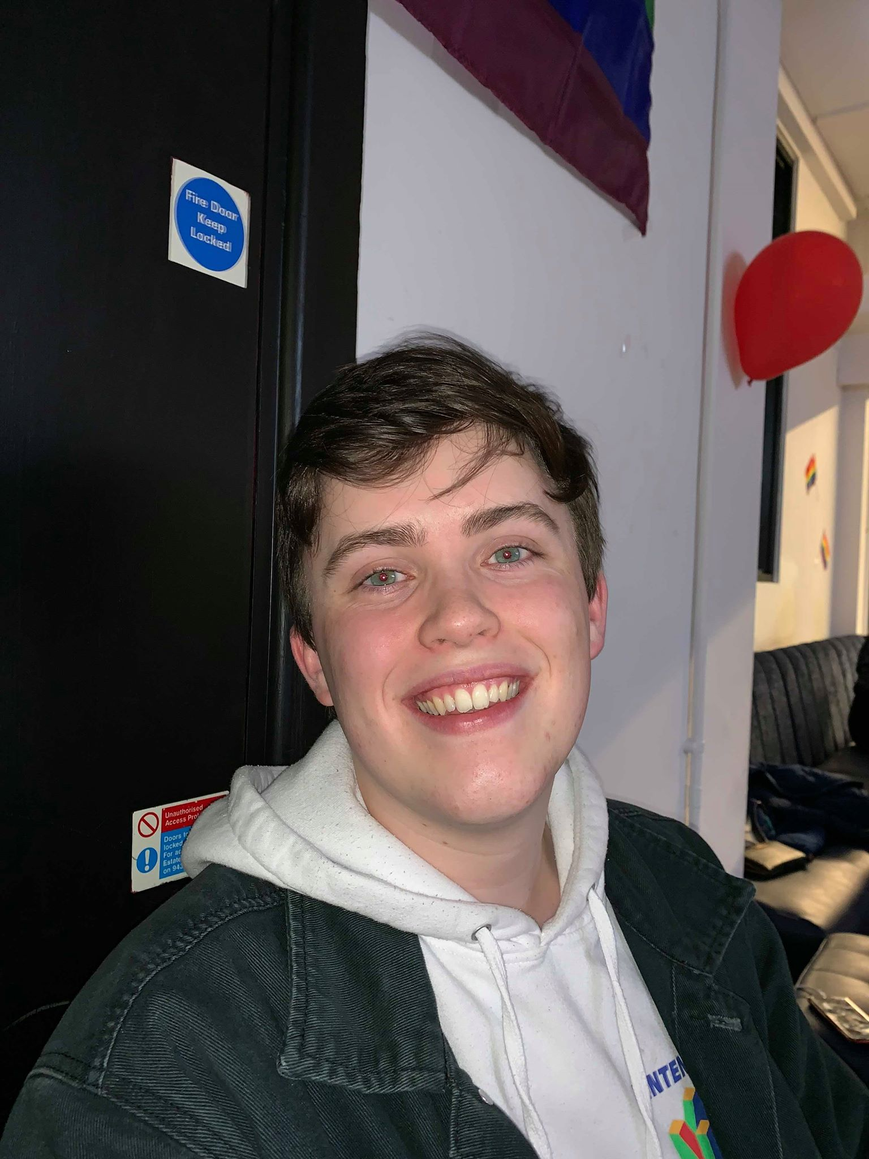
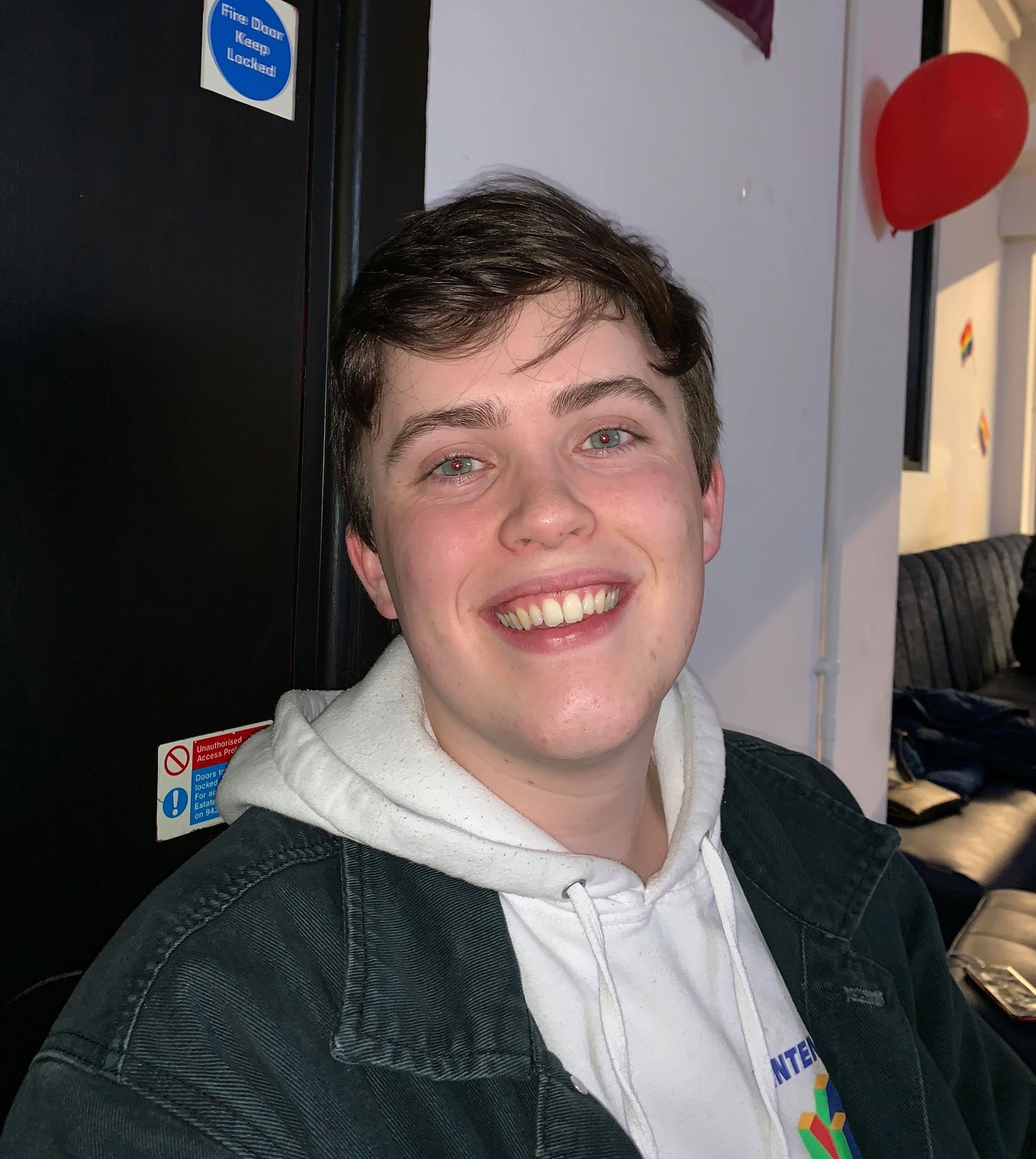
images uploaded/alligned of exec on about page profiles

diff --git a/about.html b/about.html
@@ -26,38 +26,38 @@
         <p>This year we are running a campaign called #nomoreshame, because mental health is nothing to be ashamed of.</p>
       </div>
       <div>
-      <h3>MEET THE EXEC:</h3>
-      <div class="card">
+      <h3>MEET THE EXEC</h3>
+      <div class="card1">
         <img src="monika.jpg" style="width:100%">
         <h4>Monika Conti</h4>
         <p class="description"> President </p>
       </div>
-      <div class="card">
+      <div class="card2">
         <img src="olivia.jpg" style="width:100%">
         <h4>Olivia Wilson</h4>
         <p class="description"> Vice President </p>
       </div>
-      <div class="card">
+      <div class="card3">
         <img src="elliott.jpg" style="width:100%">
         <h4>Elliott Partridge</h4>
-        <p class="description"> General Secretary </p>
+        <p class="description"> Gen Sec </p>
       </div>
-      <div class="card">
+      <div class="card4">
         <img src="chloe.jpg" style="width:100%">
         <h4>Chloe Duggan</h4>
         <p class="description"> Treasurer </p>
       </div>
-      <div class="card">
+      <div class="card5">
         <img src="ellie.jpg" style="width:100%">
         <h4>Ellie Keyworth</h4>
         <p class="description"> Events Leader </p>
       </div>
-      <div class="card">
+      <div class="card6">
         <img src="owen.jpg" style="width:100%">
         <h4>Owen Arkley</h4>
         <p class="description"> Social Media Leader </p>
       </div>
-      <div class="card">
+      <div class="card7">
         <img src="annab.jpg" style="width:100%">
         <h4>Annabelle Holloway</h4>
         <p class="description"> Head of Welfare </p>

diff --git a/contact.html b/contact.html
@@ -18,18 +18,6 @@
         <script src="https://cdnjs.cloudflare.com/ajax/libs/jquery/3.3.1/jquery.js"></script>
         <script src="js/toolbar.js"></script>
       </div>
-      <div class="card">
-        <img src="monika.jpg" alt="John" style="width:100%">
-        <h1>John Doe</h1>
-        <p class="title">CEO & Founder, Example</p>
-        <p>Harvard University</p>
-        <a href="#"><i class="fa fa-dribbble"></i></a>
-        <a href="#"><i class="fa fa-twitter"></i></a>
-        <a href="#"><i class="fa fa-linkedin"></i></a>
-        <a href="#"><i class="fa fa-facebook"></i></a>
-        <p><button>Contact</button></p>
-      </div>
-
-
+  
     </body>
 </html>

diff --git a/css/styles.css b/css/styles.css
@@ -98,7 +98,7 @@ h4 {
   text-align: center;
 
 }
-.card {
+.card1, .card2, .card3, .card4, .card5, .card6, .card7 {
   box-shadow: 0 4px 8px 0 rgba(0, 0, 0, 0.2);
   max-width: 300px;
   margin: auto;
@@ -107,7 +107,13 @@ h4 {
   color: black;
   font-size: 18px;
   font-family: 'Ubuntu', sans-serif;
+  float: left;
+  margin: 30px;
+  width:  400px;
+  height: 600px;
 }
+
+
 
 .description {
   color: black;
